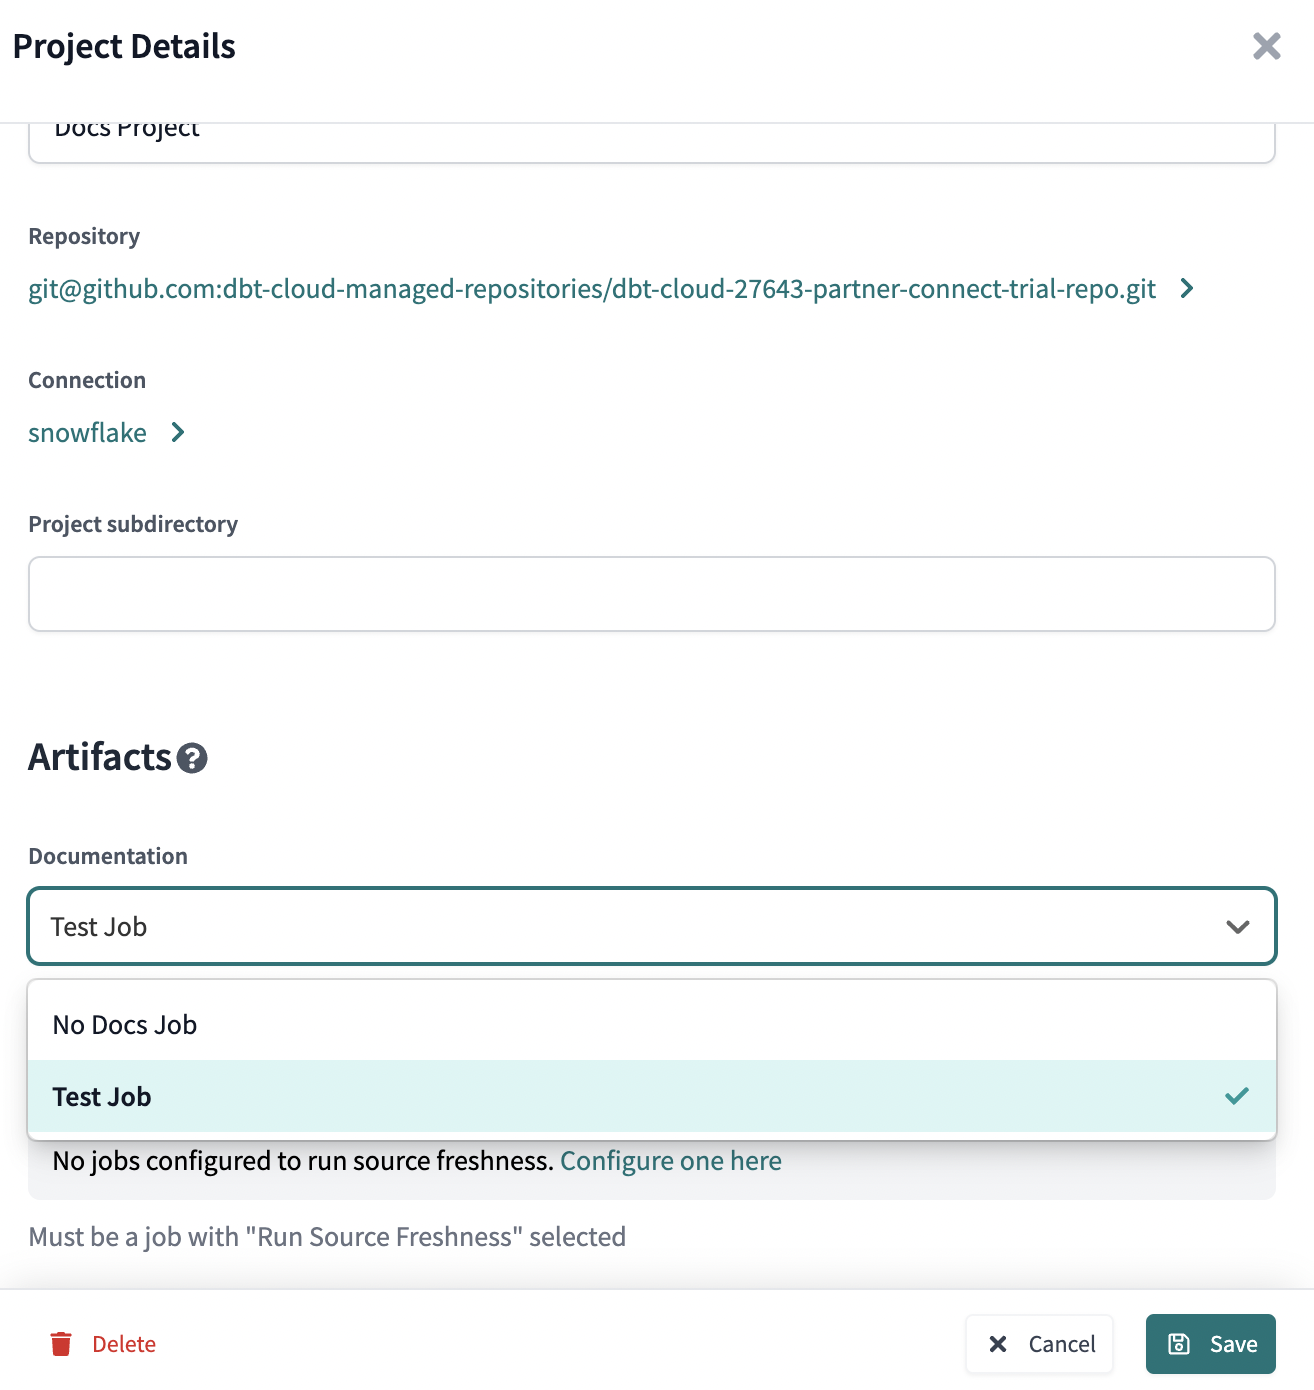
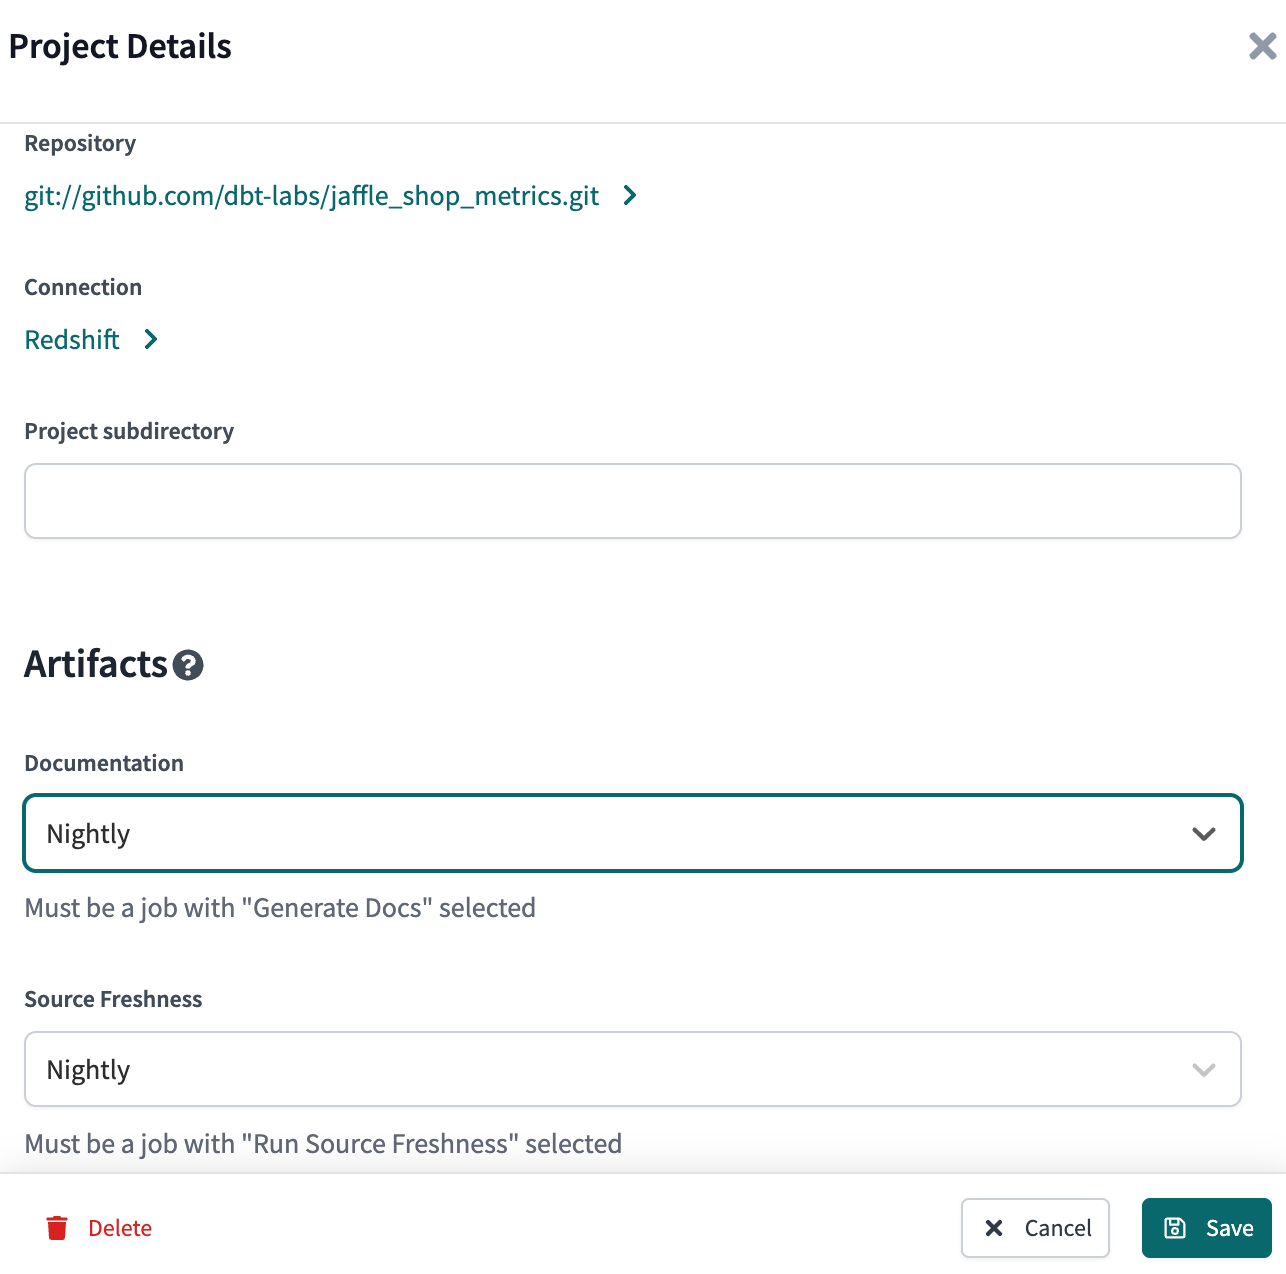
updating artifacts images and content

diff --git a/website/docs/docs/dbt-cloud/using-dbt-cloud/artifacts.md b/website/docs/docs/dbt-cloud/using-dbt-cloud/artifacts.md
@@ -4,22 +4,28 @@ id: "artifacts"
 description: "Use artifacts to power your automated docs site and source freshness data." 
 ---
 
-## dbt Cloud Artifacts
+When dbt Cloud runs dbt jobs, it generates and saves *artifacts*. You can use these artifacts, like `manifest.json`, `catalog.json`, and `sources.json` to power different aspects of dbt Cloud, namely: [dbt Docs](documentation) and [source freshness reporting](cloud-snapshotting-source-freshness).
 
-When dbt Cloud runs dbt jobs, it generates and saves *artifacts*. These artifacts, like `manifest.json`, `catalog.json`, and `sources.json` are used to power different aspects of dbt Cloud, namely: [dbt Docs](documentation) and [source freshness reporting](cloud-snapshotting-source-freshness).
+## Create dbt Cloud Artifacts
 
-While every dbt Cloud job will produce artifacts, typically you should designate only one production job for a given project. When you edit a project and select the production job, dbt Cloud will render links to the production documentation and source freshness artifacts generated for that project. You can see these artifacts in the Run Overview page for the production job.
+While running any job can produce artifacts, you should only associate one production job with a given project to produce the project's artifacts. You can designate this connection in the **Project details** page. To access this page, click the gear icon in the upper right, select **Account Settings**, select your project, and click **Edit** in the lower right. Under **Artifacts**, select the jobs that will produce documentation and source freshness artifacts. 
 
 <Lightbox src="/img/docs/dbt-cloud/using-dbt-cloud/project-level-artifact-updated.png" title="Configuring Artifacts"/>
 
+If you don't see your job listed, you might need to edit the job and select **Run source freshness** and **Generate docs on run**.
+
+<Lightbox src="/img/docs/dbt-cloud/using-dbt-cloud/edit-job-generate-artifacts.png" title="Editing the job to generate artifacts"/>
+
+When you add a production job to a project, dbt Cloud will update the content and provide links to the production documentation and source freshness artifacts generated for that project. You can see these links by clicking **Deploy** in the upper left, selecting **Jobs**, and then selecting the production job. From the job page, you can select a specific run to see how artifacts were updated for that run only.
+
 ### Documentation
 
-Once you select a job in your project settings, dbt Cloud will update "Documentation" in the top left so it links to documentation for this job. This link will always point to the latest version of the documentation for your account!
+Once set up, dbt Cloud will update the **Documentation** link in the upper left so it links to documentation for this job. This link will always point to the latest version of the documentation for your account!
 
-<Lightbox src="/img/docs/dbt-cloud/using-dbt-cloud/doc-menu.png" title="A link to the latest documentation for the selected job"/>
+<Lightbox src="/img/docs/dbt-cloud/using-dbt-cloud/doc-menu.png" title="A link to the latest documentation for the selected job"/> 
 
 ### Source Freshness
 
-As with Documentation, configuring a job for the Source Freshness artifact setting will update the "Data Sources" link under "Deploy" to point to the latest Source Freshness report for the selected job.
+As with Documentation, configuring a job for the Source Freshness artifact setting will update the Data Sources link under **Deploy** to point to the latest Source Freshness report for the selected job.
 
 <Lightbox src="/img/docs/dbt-cloud/using-dbt-cloud/data-sources.png" title="A link to the latest source freshness snapshot for the selected job"/>
